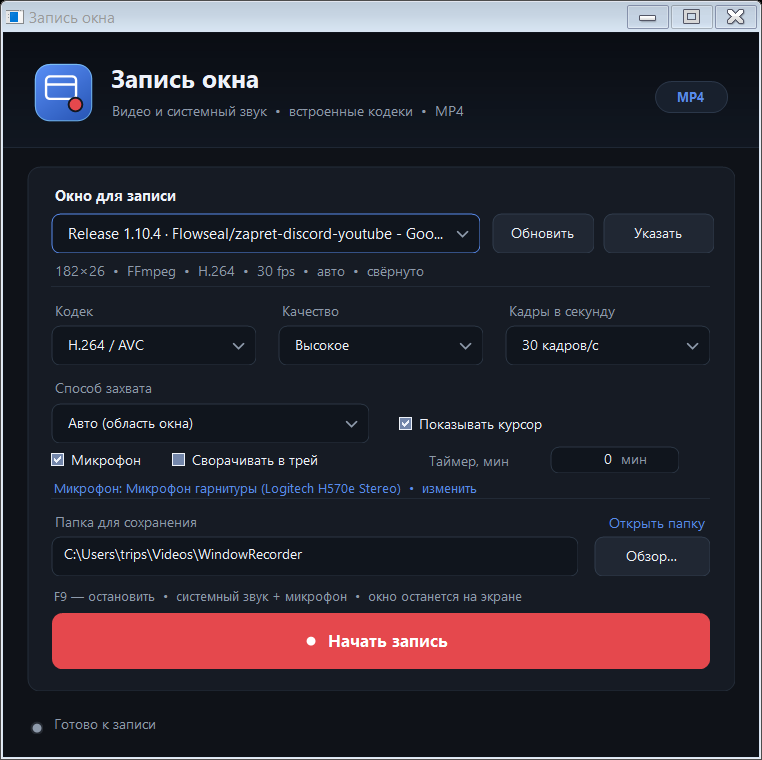
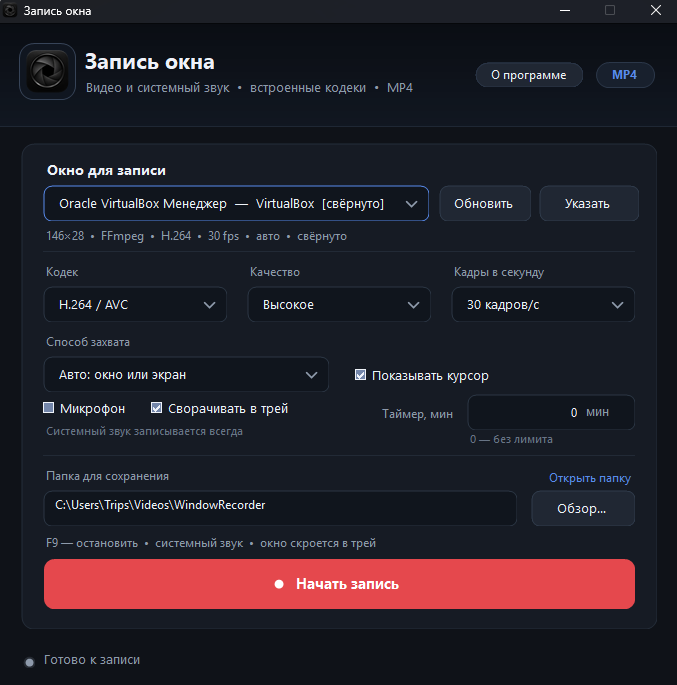
Update WindowRecorder screenshot

diff --git a/index.html b/index.html
@@ -264,7 +264,7 @@
       <!-- Window recorder -->
       <article class="card reveal" data-cat="desktop">
         <div class="card__shot card__shot--contain">
-          <img src="assets/window-recorder.png" alt="Запись окна: выбор окна, кодеки и таймер" loading="lazy" width="762" height="760">
+          <img src="assets/window-recorder.png" alt="Запись окна: выбор окна, кодеки и таймер" loading="lazy" width="677" height="685">
           <div class="card__badges">
             <span class="pill pill--solid">Утилиты</span>
             <span class="pill pill--lock">
